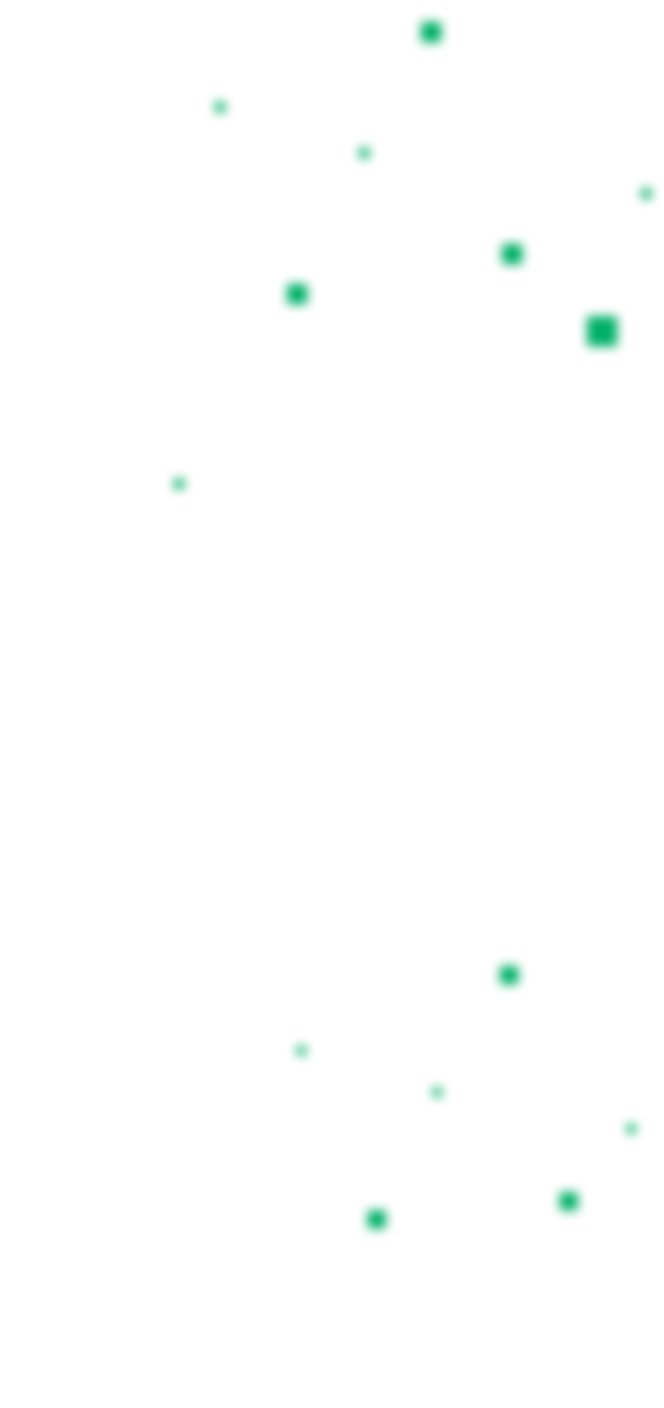
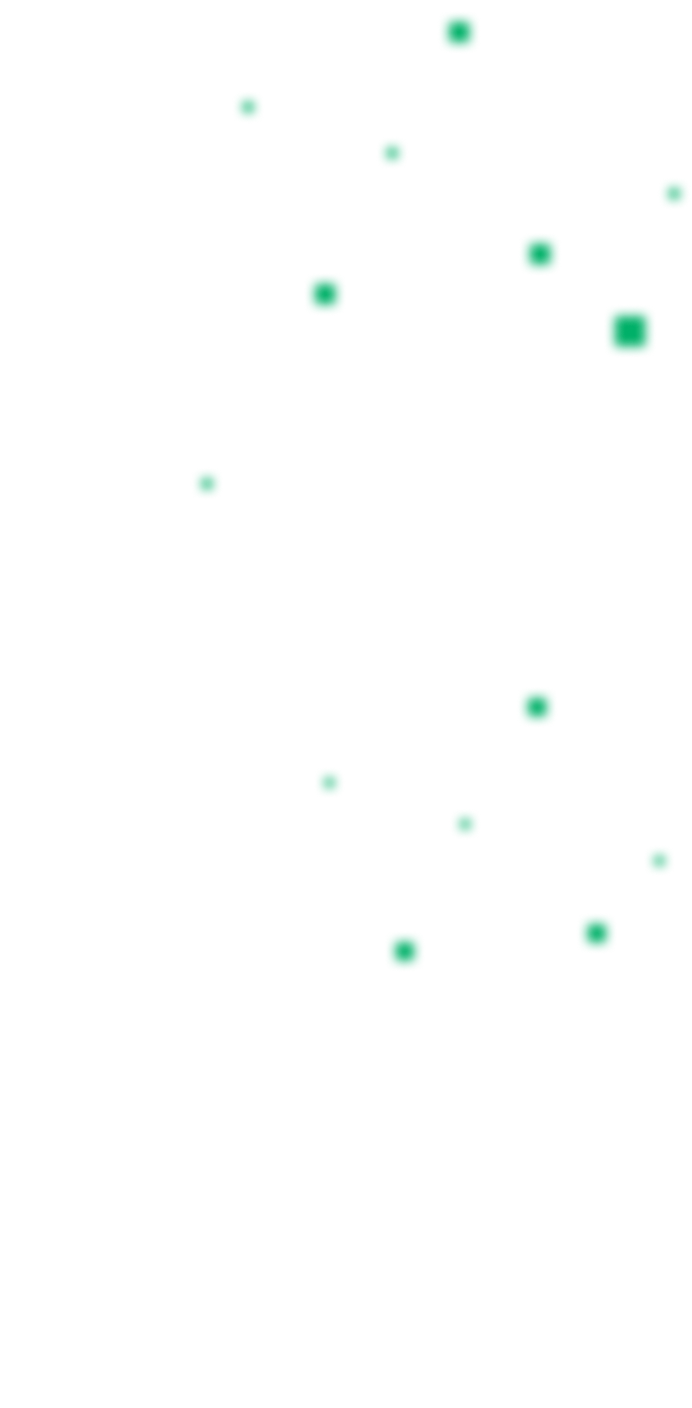
Bg hero fix

diff --git a/src/css/hero.css b/src/css/hero.css
@@ -1,14 +1,5 @@
 .title-btn-cont {
   padding-top: 112px;
-  background-image: url(/img/hero/bg-hero-mob.png);
-  background-position: bottom 234px right 60px;
-  background-size: 104%;
-}
-
-@media screen and (min-resolution: 192dpi) {
-  .title-btn-cont {
-    background-image: url(/img/hero/bg-hero-mob@2x.png);
-  }
 }
 
 .hero-content-container {
@@ -18,6 +9,16 @@
   padding-bottom: 52px;
   margin: 0 auto;
   gap: 40px;
+  background-image: url(/img/hero/bg-hero-mob.png);
+  background-size: cover;
+  background-position: left -22px top 12px;
+  background-repeat: no-repeat;
+}
+
+@media screen and (min-resolution: 192dpi) {
+  .hero-content-container {
+    background-image: url(/img/hero/bg-hero-mob@2x.png);
+  }
 }
 
 /* ------------------------------------------------- */
@@ -29,9 +30,6 @@
 }
 
 .hero-title {
-  width: 320px;
-  height: 240px;
-  font-weight: 400;
   font-size: 64px;
   line-height: 125%;
   letter-spacing: 0.03em;
@@ -168,28 +166,27 @@ body.dark-theme .hero-list {
 @media screen and (min-width: 768px) {
   .title-btn-cont {
     max-width: 768px;
-    background-repeat: repeat-y;
-    background-image: url(/img/hero/bg-hero-tab.png);
-    background-position: bottom 396px right 0px;
-    background-size: 52%;
-    padding-top: 88px;
+    padding-top: 80px;
+    gap: 60px;
   }
 
   .hero-content-container {
     max-width: 704px;
     padding-bottom: 84px;
+    background-image: url(/img/hero/bg-hero-tab.png);
+    background-size: cover;
+    background-position: left 4px top 4px;
+    background-repeat: no-repeat;
   }
 
   @media screen and (min-resolution: 192dpi) {
-    .title-btn-cont {
+    .hero-content-container {
       background-image: url(/img/hero/bg-hero-tab@2x.png);
     }
   }
 
   /* ------------------------------------------------- */
   .hero-title {
-    width: 552px;
-    height: 444px;
     font-size: 124px;
     line-height: 119%;
     letter-spacing: 0.01em;
@@ -230,37 +227,31 @@ body.dark-theme .hero-list {
 @media screen and (min-width: 1280px) {
   .title-btn-cont {
     max-width: 1280px;
-    background-repeat: no-repeat;
-    background-image: url(/img/hero/bg-hero-desk.png);
-    background-position: top 370px right 0px;
-    background-size: 74%;
     padding-bottom: 76px;
     padding-top: 0;
+    gap: 80px;
   }
 
   .hero-content-container {
     max-width: 1216px;
-    padding-top: 168px;
+    padding-top: 88px;
     padding-bottom: 0px;
     gap: 72px;
     display: flex;
     flex-direction: row;
-    background-repeat: no-repeat;
     background-image: url(/img/hero/bg-hero-desk.png);
-    background-position: bottom 608px left 724px;
+    background-size: cover;
+    background-position: left -4px top 4px;
+    background-repeat: no-repeat;
   }
 
   @media screen and (min-resolution: 192dpi) {
-    .title-btn-cont {
+    .hero-content-container {
       background-image: url(/img/hero/bg-hero-desk@2x.png);
     }
   }
 
   /* ------------------------------------------------- */
-  .title-btn-cont {
-    gap: 80px;
-  }
-
   .hero-title {
     width: 552px;
     height: 444px;
